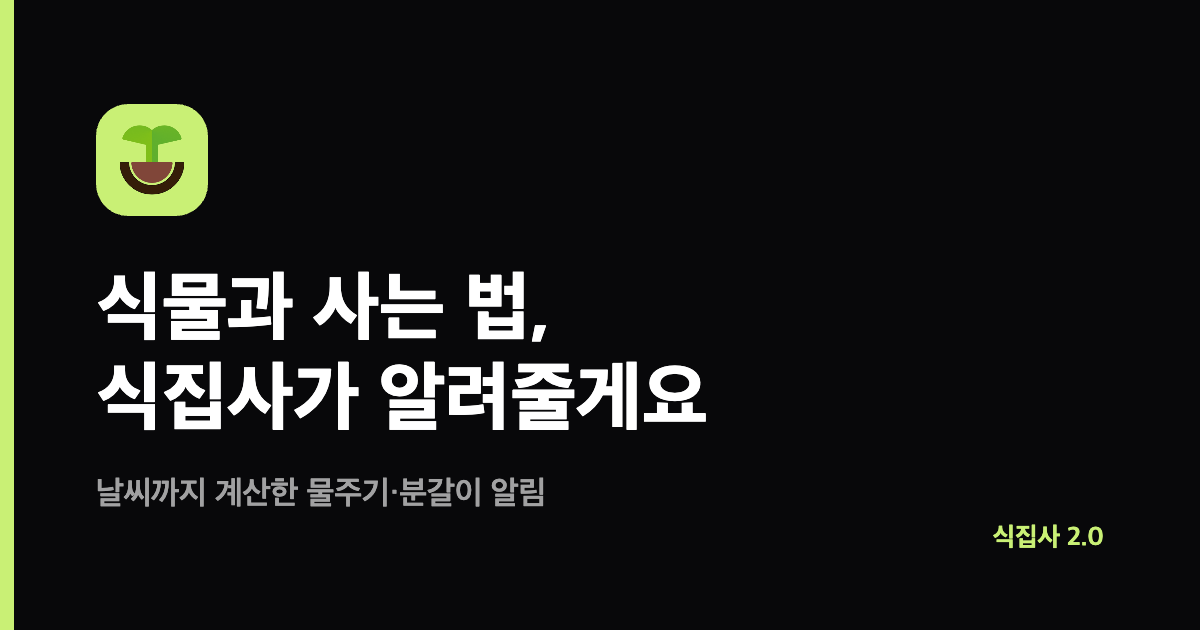
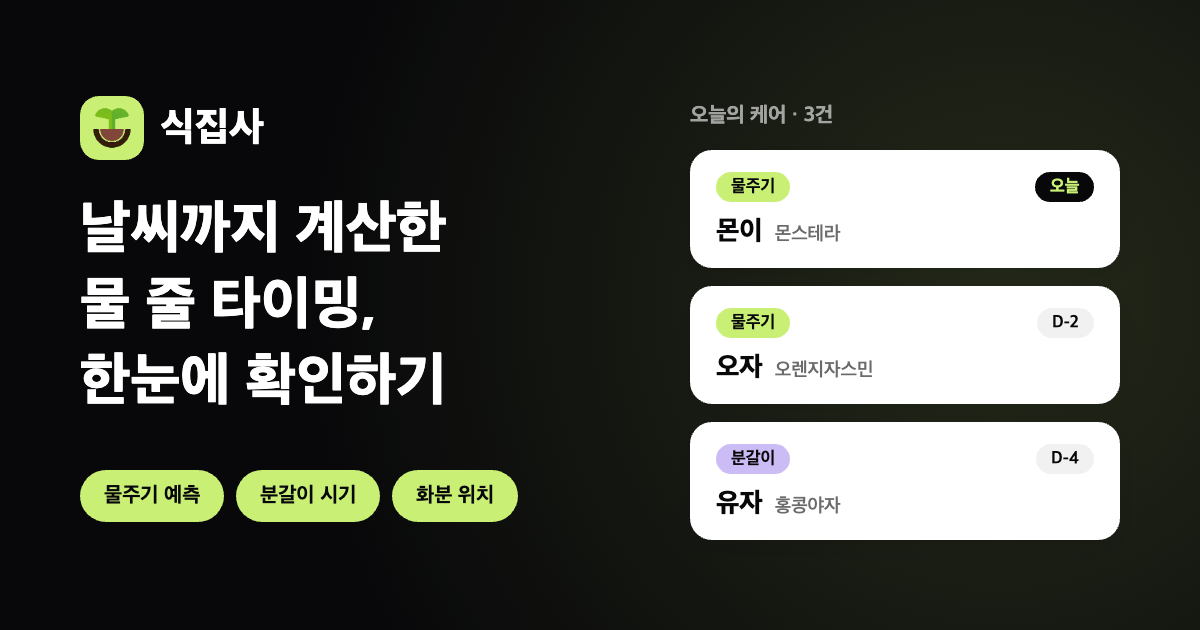
design: OG 카드를 좌우 2단 구성으로 재설계 (다크 채택)
- 왼쪽: 로고 락업 · 3줄 헤드라인 · 기능 칩 3개
- 오른쪽: 실제 앱 카드 미리보기 3장(물주기 라임 · 분갈이 라벤더, "오늘"만 강조)
- 카드 안 위아래 여백을 22px로 맞춰 이름줄이 바닥에 눌리던 것 해소
- 화이트·다크 2안 중 다크 채택 — 밝은/어두운 대화방 양쪽에서 경계가 또렷

diff --git a/spec.md b/spec.md
@@ -210,7 +210,7 @@
 <summary>2026-08-25 (2건)</summary>
 
 - **③구현 착수 순서 11번 ① 2차 마무리 — "밀린 일정"을 일급 상태로 승격.** 1차 점검에서 남겨둔 수정분을 마무리하며 공통 원인을 하나 찾음 — 지난 일정을 전부 **예정일 날짜 그대로**(`분갈이 · 2026-03-01`) 보여주고 있어서, 사용자가 날짜를 오늘과 직접 비교하기 전까지 밀렸다는 사실 자체를 알 수 없었다. 세 화면에 걸쳐 "얼마나 밀렸나"로 표현을 통일 — (1) SC-03 할일 카드에 `n일 지남`을 라임 강조로, 90일 넘게 밀리면 세 자리 숫자가 안 읽혀 `2026년 3월부터 밀림`(연·월)으로 접음. 이미 있던 `dday()`에 먼 과거 분기를 대칭으로 추가해 표기를 한 곳에서만 만들게 함(먼 미래 90일 규칙과 같은 기준) (2) SC-05 캘린더는 밀린 항목을 원래 날짜에만 두면 지나간 달을 뒤져야 보이므로 **오늘 칸으로 끌어와** "밀림" 배지와 원래 예정일을 병기, 보이는 범위 밖 항목까지 별도 조회 (3) SC-06 리스트 카드에 "분갈이 시기" 배지 — 상세(SC-07)에 들어가야만 알 수 있던 상태를 리스트로 끌어올림. 검증 중 발견해 고친 것 2건 — 밀린 항목을 완료하면 `scheduled_date`가 그대로라 오늘 칸에서 사라지던 문제(조회 조건을 `미완료 OR 오늘 완료`로 확장), 원래 날짜 칸에서 제목과 "예정 2026-03-01"이 중복되던 문제(오늘 칸으로 끌어온 경우만 병기). 부수로 전 탭 sticky 제목에 스크롤 경계 그림자, 캘린더 점 3개 초과 시 `+n` 접기, SC-03 알림 배너를 라벤더 면 → 좌측 보더로 축소. 이번 라운드 규칙 5건을 CLAUDE.md "UX 점검 2차" 절로 신설하고, 이미 쓰고 있으면서 팔레트 표에 빠져 있던 `soil` 토큰도 함께 문서화
-- **③구현 착수 순서 11번 ② — 파비콘·링크 공유 미리보기 설정.** PWA를 제외하면서 11번으로 옮겨 온 두 항목(기본 Next.js 아이콘, OG 미설정)을 처리. 로고 원본(`public/images/logo_icon.png`) 하나에서 4종을 파생 — `icon.png`(256·투명) · `favicon.ico`(64) · `apple-icon.png`(180·불투명 라임) · `opengraph-image.png`/`twitter-image.png`(1200×630). **파비콘 배경은 눈으로 비교해서 확정** — 라임·흰·ink·투명 4안을 만들어 16·24·32px로 밝은/어두운 탭 배경에 나란히 놓고 보니, 브랜드색인 라임에 올리면 초록 새싹이 배경에 묻히고 `ink`에 올리면 갈색 화분이 묻혀서 로고의 절반만 읽혔다. 두 색이 다 살아남는 건 배경 없는 원본뿐이라 **투명 풀블리드**로 결정(iOS 홈 아이콘만 예외 — 투명이 검게 깔리므로 라임 락업 유지). OG 카드는 새 디자인을 만들지 않고 SC-01 입구 화면 구성(ink 배경·라임 락업·"식물과 사는 법, 식집사가 알려줄게요")을 그대로 옮김. `layout.tsx`에 `metadataBase`를 배포 주소로 두고 `openGraph`·`twitter` 메타를 추가, 개발 서버는 Next가 localhost로 덮어쓰므로 `next build && next start`로 절대주소가 배포 주소로 나가는 것까지 확인. 트러블슈팅 — 이 맥에 ImageMagick·PIL이 없고 `sips`는 합성이 안 되며 브라우저가 `file://`을 못 열고 스크린샷도 JPEG라, 캔버스로 그려 임시 API 라우트로 저장하는 방식을 썼다(작업 후 라우트 삭제). 그 라우트를 `app/api/_devsave`로 만들었다가 404 — App Router에서 `_` 시작 폴더는 라우팅에서 제외된다
+- **③구현 착수 순서 11번 ② — 파비콘·링크 공유 미리보기 설정.** PWA를 제외하면서 11번으로 옮겨 온 두 항목(기본 Next.js 아이콘, OG 미설정)을 처리. 로고 원본(`public/images/logo_icon.png`) 하나에서 4종을 파생 — `icon.png`(256·투명) · `favicon.ico`(64) · `apple-icon.png`(180·불투명 라임) · `opengraph-image.png`/`twitter-image.png`(1200×630). **파비콘 배경은 눈으로 비교해서 확정** — 라임·흰·ink·투명 4안을 만들어 16·24·32px로 밝은/어두운 탭 배경에 나란히 놓고 보니, 브랜드색인 라임에 올리면 초록 새싹이 배경에 묻히고 `ink`에 올리면 갈색 화분이 묻혀서 로고의 절반만 읽혔다. 두 색이 다 살아남는 건 배경 없는 원본뿐이라 **투명 풀블리드**로 결정(iOS 홈 아이콘만 예외 — 투명이 검게 깔리므로 라임 락업 유지). **OG 카드는 두 번 만듦** — 처음엔 새 디자인 없이 SC-01 입구 화면 구성을 그대로 옮겼는데, 사용자가 참고 이미지(좌우 2단 랜딩형 카드)를 주면서 재설계 요청. 왼쪽에 로고 락업·3줄 헤드라인("날씨까지 계산한 / 물 줄 타이밍, / 한눈에 확인하기")·기능 칩 3개(물주기 예측·분갈이 시기·화분 위치, ③서비스 설계의 핵심 기능 3가지와 일치), 오른쪽에 실제 앱 카드 미리보기 3장을 배치해 "무슨 앱인지"가 카드 한 장에서 읽히게 함. 화이트·다크 2안을 뽑아 카톡 실제 크기(340px)까지 비교한 뒤 **다크 채택**(흰 카드가 검은 배경에 떠서 밝은 대화방·어두운 대화방 양쪽에서 경계가 또렷하다는 이유). 이후 사용자가 오른쪽 카드 내부 간격을 지적해 위아래 여백을 22px로 맞춰 재조정. `layout.tsx`에 `metadataBase`를 배포 주소로 두고 `openGraph`·`twitter` 메타를 추가, 개발 서버는 Next가 localhost로 덮어쓰므로 `next build && next start`로 절대주소가 배포 주소로 나가는 것까지 확인. 트러블슈팅 — 이 맥에 ImageMagick·PIL이 없고 `sips`는 합성이 안 되며 브라우저가 `file://`을 못 열고 스크린샷도 JPEG라, 캔버스로 그려 임시 API 라우트로 저장하는 방식을 썼다(작업 후 라우트 삭제). 그 라우트를 `app/api/_devsave`로 만들었다가 404 — App Router에서 `_` 시작 폴더는 라우팅에서 제외된다
 
 </details>
 

diff --git a/CLAUDE.md b/CLAUDE.md
@@ -129,7 +129,10 @@
 
 - 로고 원본은 `public/images/logo_icon.png` 하나뿐 — 아이콘류는 전부 여기서 파생시킨다
 - **탭 파비콘은 투명 풀블리드** — 라임 배경에 올리면 초록 새싹이 배경에 묻히고, `ink`에 올리면 갈색 화분이 묻힌다. 16px에서 둘 다 읽히는 건 배경 없는 원본뿐(실제로 16·24·32px로 비교해 확정)
-- OG 카드는 SC-01 입구 화면을 그대로 옮긴 구성(ink 배경 · 라임 락업 · 같은 카피) — 카피를 바꾸면 SC-01도 같이 바꿀 것
+- OG 카드는 **좌우 2단** — 왼쪽은 로고 락업 · 3줄 헤드라인 · 기능 칩 3개, 오른쪽은 실제 앱 카드 미리보기 3장. 배경은 `ink`(다크), 오른쪽에 라임 방사형 그라디언트를 아주 옅게
+  - 오른쪽 카드는 앱 UI와 같은 규칙을 지킬 것 — 물주기 라임 · 분갈이 라벤더 배지, "오늘"만 블랙+라임 강조
+  - 카드 안 여백은 위아래를 같게(22px) — 배지와 이름줄 사이만 벌리고 아래를 붙이면 글자가 바닥에 눌린 것처럼 보인다
+  - 그라디언트는 캔버스 전체에 깔 것. 일부 영역만 칠하면 경계에 세로 이음매가 남는다
 - `metadataBase`(`app/layout.tsx`)는 배포 주소 `https://sikjipsa-one.vercel.app` 기준. 개발 중엔 Next가 localhost로 덮어쓰므로 미리보기 주소 확인은 `next build && next start`로 할 것
 
 ## MVP 구현 범위 — 반드시 지킬 것

diff --git a/docs/dev-log.md b/docs/dev-log.md
@@ -40,7 +40,7 @@
 **11번 ② 파비콘·링크 공유 미리보기**
 - Next.js 기본 아이콘을 걷어내고 로고(`logo_icon.png`)에서 4종 파생 — `icon.png`(256, 투명) · `favicon.ico`(64) · `apple-icon.png`(180, 라임) · `opengraph-image.png`/`twitter-image.png`(1200×630)
 - 배경을 라임/흰/ink/투명 4안으로 만들어 16·24·32px에서 나란히 비교 → **투명 풀블리드** 확정. 라임은 초록 새싹이, ink는 갈색 화분이 배경에 묻혔다
-- OG 카드는 SC-01 입구 화면을 그대로 옮긴 구성(ink 배경 · 라임 락업 · 같은 카피)
+- OG 카드는 처음에 SC-01 입구 화면을 그대로 옮겼다가, 참고 이미지(좌우 2단 랜딩형)를 받아 **재설계** — 왼쪽 로고·3줄 헤드라인·기능 칩 3개 / 오른쪽 실제 앱 카드 3장. 화이트·다크 2안을 뽑아 **다크 채택**
 - `layout.tsx`에 `metadataBase`·`openGraph`·`twitter` 메타 추가
 
 **스펙과 다르게 구현한 부분**
